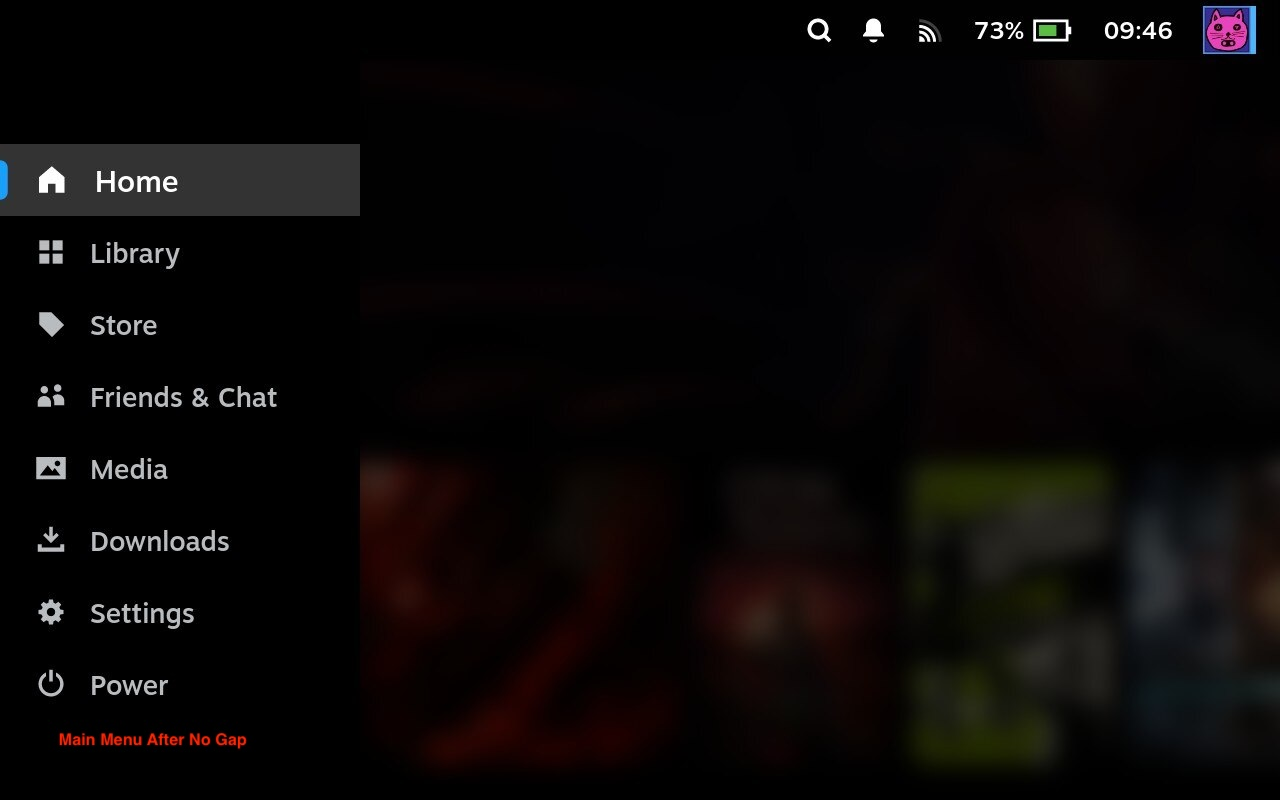
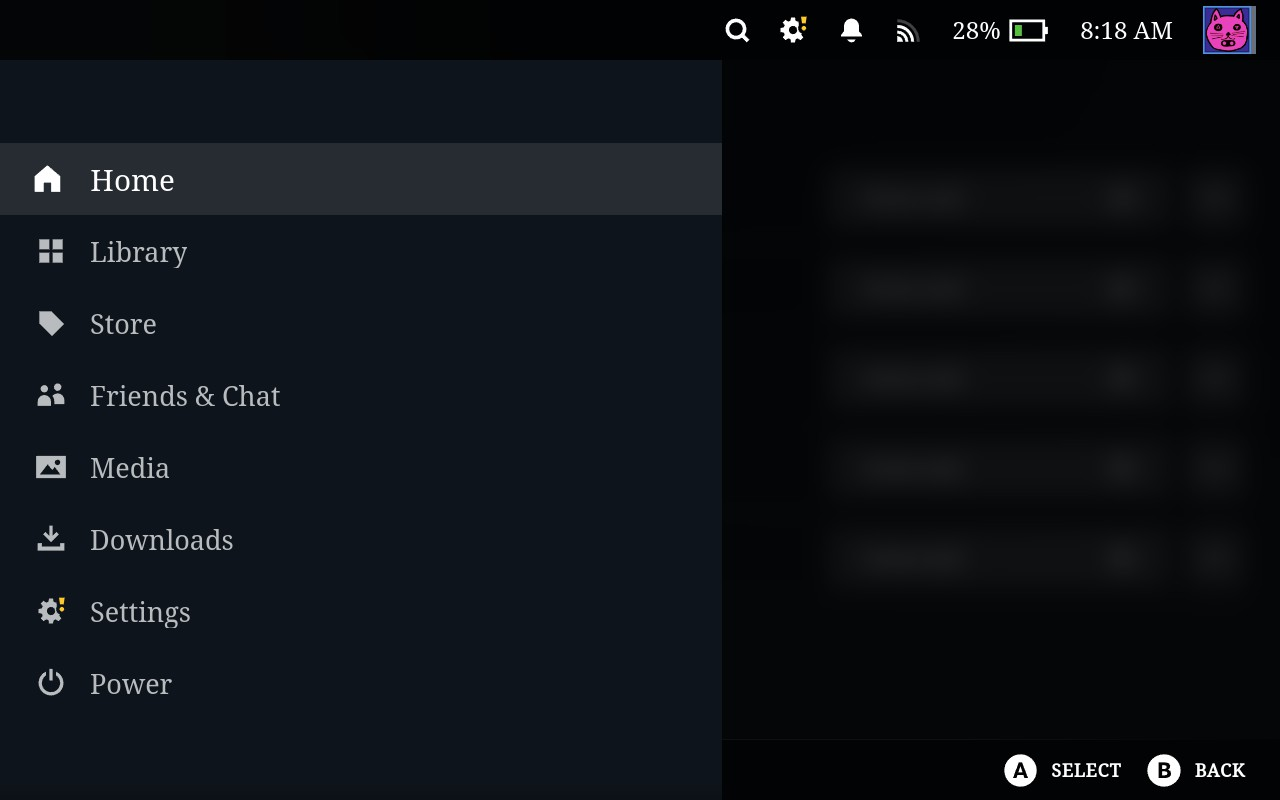
fix: correct main menu width calculation and update README (v1.5.3)
Menu width was visually wrong because CSS Loader pre-sizes the MainMenu
popup to the configured vw value, making vw units inside the popup
relative to a smaller viewport. Switching to 100% fills the
pre-sized popup correctly.

diff --git a/Full-Screen-Menus/full_width_mainmenu.css b/Full-Screen-Menus/full_width_mainmenu.css
@@ -1,6 +1,6 @@
-/* No game running: always use configured width */
+/* No game running: popup is already sized by CSS Loader, so fill it */
 .mainmenu_Menu_23IDi.mainmenu_Open_3apLK:only-child {
-    width: var(--main-menu-width);
+    width: 100%;
 }
 
 /* Game running (AppRunning sibling present), not collapsed:
@@ -24,7 +24,7 @@
 
 /* mainmenu_ItemOuter */
 [class*="1BbM8Qq8OL5N8gL4PYH397"] {
-    width: var(--main-menu-width);
+    width: 100%;
 }
 
 /* mainmenu_ActiveDot */

diff --git a/README.md b/README.md
@@ -1,11 +1,65 @@
-# Full Size Menus
+# Full Screen Menus
 
-This theme extends the QAM and Main Menus to the bottom of the screen.
+Extends the Quick Access Menu (QAM) and Main Menu to the bottom of the screen, and adds configurable width controls for both.
 
-## Main Menu
+## Features
+
+### Full-Height Menus
+
+Both the Main Menu and QAM are extended to fill the full height of the screen instead of stopping partway down.
+
+### Main Menu Width
+
+Controls how wide the Main Menu is. Options: **Off** (default Steam width), **50%**, **75%**, **100%** of screen width.
+
+### QAM Width
+
+Controls how wide the Quick Access Menu is. Options: **Off** (default Steam width), **50%**, **75%**, **100%** of screen width.
+
+### Expand Menu In Game
+
+When a game is running, the Main Menu collapses to its default narrow width by default. Enable this to keep the menu at your configured width while in-game.
+
+## Screenshots
+
+### Main Menu
+
+**Before**
 ![Main Menu Before](./imgs/MainMenu-Before.jpg)
+
+**After**
 ![Main Menu After](./imgs/MainMenu-After.jpg)
 
-## Quick Action Menu
+### Quick Access Menu
+
+**Before**
 ![QAM Before](./imgs/QAM-Before.jpg)
+
+**After**
 ![QAM After](./imgs/QAM-After.jpg)
+
+### Expand Menu In Game
+
+**Off**
+![Main Menu In Game - Default](./imgs/MainMenu-InGame-NotModified.png)
+
+**On**
+![Main Menu In Game - Expanded](./imgs/MainMenu-InGame-Modified.png)
+
+## Installation
+
+### CSS Loader Store
+
+Search for "Full Screen Menus" in the CSS Loader store and install it from there.
+
+### Manual Install
+
+**Prerequisites:** [Decky Loader](https://decky.xyz/) and [CSS Loader](https://docs.deckthemes.com/CSSLoader/Install/) must be installed.
+
+1. Switch to Desktop Mode on your Steam Deck.
+2. Download this repository as a ZIP (or clone it via `git clone`).
+3. Copy the `Full-Screen-Menus` folder into `~/homebrew/themes/`:
+   ```bash
+   cp -r Full-Screen-Menus ~/homebrew/themes/
+   ```
+4. In Gaming Mode, open CSS Loader from the Quick Access Menu and reload your themes.
